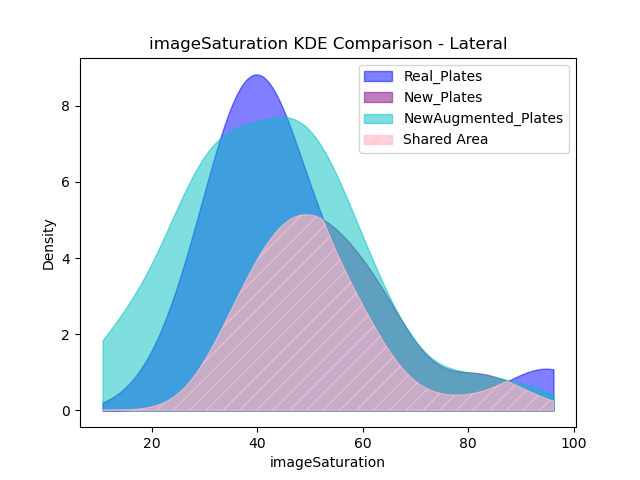
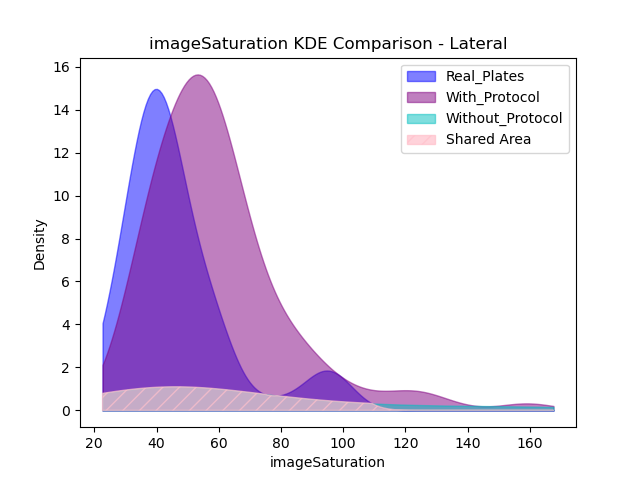
used whole dataset to the dataexploration plots

diff --git a/DataExplorations/DatasetDetection.py b/DataExplorations/DatasetDetection.py
@@ -14,7 +14,10 @@ from ExploreParameters import detectPlates
 
 
 def normalize_view(view):
-    """Map augmented folder names to normal ones."""
+    """
+    Map augmented folder names to normal ones.
+    This was needed before to normalize the views do to the names of the folders 
+    """
     if "Frontal" in view:
         return "Frontal"
     if "Lateral" in view:
@@ -52,7 +55,8 @@ def analyze_datasets(datasets):
                 if img is None:
                     continue
                 plates, _ = detectPlates(img)
-         
+
+                
                 #IF NO PLATES DETECTED, WE WILL ZOOM IN OR ZOOM OUT THE IMAGE.
                 if len(plates) == 0:
                     # Zoom-in: crop center 90% and resize back 
@@ -62,7 +66,7 @@ def analyze_datasets(datasets):
                     cropped = img[crop_y1:crop_y2, crop_x1:crop_x2]
                     zoomed_in = cv2.resize(cropped, (w, h), interpolation=cv2.INTER_CUBIC)
                     plates, _ = detectPlates(zoomed_in)
-
+                """
                 if len(plates) == 0:
                     # MORE AGRESSIVE Zoom-in: crop center 70% and resize back
                     h, w = img.shape[:2]
@@ -71,7 +75,7 @@ def analyze_datasets(datasets):
                     cropped = img[crop_y1:crop_y2, crop_x1:crop_x2]
                     zoomed_in = cv2.resize(cropped, (w, h), interpolation=cv2.INTER_CUBIC)
                     plates, _ = detectPlates(zoomed_in)
-
+                """
                 if len(plates) == 0:
                     # Zoom-out: add black padding and resize back
                     zoom_factor = 1.5
@@ -82,7 +86,7 @@ def analyze_datasets(datasets):
                     canvas[y_offset:y_offset+h, x_offset:x_offset+w] = img
                     zoomed_out = cv2.resize(canvas, (w, h), interpolation=cv2.INTER_CUBIC)
                     plates, _ = detectPlates(zoomed_out)
-                  
+        
                 
                 if len(plates) > 0:
                     detected += 1
@@ -121,16 +125,15 @@ def plot_bar(labels, values, title, ylabel, colors, percentages=None, y_limit=No
 
 def main():
     Real_DataDir = r"data"
-    Own_DataDir = r"data/Patentes"
-    Augmented_DataDir = r"data/Patentes"
+    WithProtocol_DataDir = r"data/All/with_Protocol"
+    WithoutProtocol_DataDir = r"data/All/without_Protocol"
 
     Views = ["Frontal", "Lateral"]
-    Views_A = ["FrontalAugmented", "LateralAugmented"]
 
     datasets = {
         "Real_Plates": (Real_DataDir, Views),
-        "New_plates": (Own_DataDir, Views),
-        "NewAugmented_plates": (Augmented_DataDir, Views_A),
+        "With_Protocol": (WithProtocol_DataDir, Views),
+        "Without_Protocol": (WithoutProtocol_DataDir, Views),
     }
 
     image_counts, detected_counts = analyze_datasets(datasets)
@@ -139,7 +142,7 @@ def main():
     colors = ["#1F4E79", "#4A90E2", "#87CEFA"]
 
     # ---------- Plot number of images ----------
-    for view in ["Frontal", "Lateral"]:
+    for view in Views:
         values = [image_counts[d].get(view, 0) for d in datasets_list]
         plot_bar(
             labels=datasets_list,
@@ -150,7 +153,7 @@ def main():
         )
 
     # ---------- Plot detection accuracy (%) ----------
-    for view in ["Frontal", "Lateral"]:
+    for view in Views:
         percentages = []
         for d in datasets_list:
             total = image_counts[d].get(view, 0)

diff --git a/DataExplorations/KDE_analysis.py b/DataExplorations/KDE_analysis.py
@@ -76,21 +76,21 @@ def plot_kde_comparison(dataset_names, dataset_dicts, Views, property_name, save
 def main():
     setup_plots_folder()
     
-    # Define datasets
+    # Define datasets. NOW WE ADDED ALL THE IMAGES TAKEN BY OUR COLLEAGES. 
     Real_DataDir = r"data"
-    Own_DataDir = r"data/Patentes"
-    Augmented_DataDir = r"data/Patentes"
+    WithProtocol_DataDir = r"data/All/with_Protocol"
+    WithoutProtocol_DataDir = r"data/All/without_Protocol"
     
     Views = ["Frontal", "Lateral"]
-    Views_A = ["FrontalAugmented", "LateralAugmented"]
     
     datasets = {
         "Real_Plates": (Real_DataDir, Views),
-        "New_Plates": (Own_DataDir, Views),
-        "NewAugmented_Plates": (Augmented_DataDir, Views_A),
+        "With_Protocol": (WithProtocol_DataDir, Views),
+        "Without_Protocol": (WithoutProtocol_DataDir, Views),
     }
     
     # Compute properties for all datasets
+    print("Computing properies of the complete dataset...")
     computed = {}
     for name, (dir_path, views) in datasets.items():
         plateArea, plateAngle, imageColor, imageIlluminance, imageSaturation = computeProperties(dir_path, views)
@@ -107,21 +107,16 @@ def main():
     # Properties to compare
     properties = ["plateAngle", "imageColor", "imageIlluminance", "imageSaturation"]
     
-    # Map views for plotting (Real and Own use ["Frontal","Lateral"], Augmented uses Views_A)
-    view_mapping = {
-        "Frontal": ["Frontal", "Frontal", "FrontalAugmented"],
-        "Lateral": ["Lateral", "Lateral", "LateralAugmented"]
-    }
-    
     # Plot KDE comparisons for each property and each view
+    print("Creating KDE plots...")
     for prop in properties:
-        for view in ["Frontal", "Lateral"]:
+        for view in Views:
             dataset_dicts = [computed[name][prop] for name in dataset_names]
-            mapped_views = [view_mapping[view][i] for i in range(len(dataset_dicts))]
-            # Re-map dicts to use the correct view names
+            
+            # Build remapped dicts per view
             remapped_dicts = []
-            for d, v in zip(dataset_dicts, mapped_views):
-                remapped_dicts.append({view: d.get(v, [])})
+            for d in dataset_dicts:
+                remapped_dicts.append({view: d.get(view, [])})
             
             plot_kde_comparison(dataset_names, remapped_dicts, [view], property_name=prop)
     

diff --git a/DataExplorations/DataExploration.py b/DataExplorations/DataExploration.py
@@ -20,7 +20,7 @@ from scipy.stats import gaussian_kde
 from matplotlib import pyplot as plt
 
 # OWN FUNCTIONS (MODIFY ACORDING TO YOUR LOCAL PATH)
-from DataExploration.LicensePlateDetector import detectPlates
+from LicensePlateDetector import detectPlates
 
 
 """

diff --git a/DataExplorations/ExploreParameters.py b/DataExplorations/ExploreParameters.py
@@ -22,7 +22,7 @@ from matplotlib import pyplot as plt
 import os
 import argparse
 
-SHOW = 1
+SHOW = 0
 
 # Plate size thresholds (smaller min size for distant plates)
 minPlateW = 60   # previously 100

diff --git a/DataExplorations/LicensePlateDetector.py b/DataExplorations/LicensePlateDetector.py
@@ -20,7 +20,7 @@ import os
 import argparse
 import random
 
-SHOW = 1
+SHOW = 0
 minPlateW = 100
 minPlateH = 30
 
